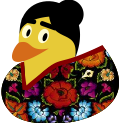
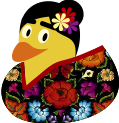
Frida: adding hair flowers

Changed region(s): [[0.1765, 0.3659, 0.8824, 0.7317], [0.4286, 0.0488, 0.6807, 0.2927]]

diff --git a/duckpond/Frida.tex b/duckpond/Frida.tex
@@ -25,9 +25,26 @@
   \end{scope}
   
   \begin{scope}[shift={(-0.09,-0.09)}]
-    \path[fill=red!60!black,overlay] (1.9613,1.4427) .. controls (1.8440,1.3835) and (1.7300,1.3506) .. (1.6485,1.3157) .. controls (1.5671,1.2809) and (1.5012,1.2563) .. (1.4464,1.2380) .. controls (1.3916,1.2196) and (1.3477,1.2076) .. (1.3102,1.1979) .. controls (1.2727,1.1882) and (1.2414,1.1808) .. (1.2119,1.1717) .. controls (1.1823,1.1628) and (1.1544,1.1522) .. (1.1235,1.1361) .. controls (1.0926,1.1200) and (0.9771,1.0259) .. (0.9354,0.9947) .. controls (0.8938,0.9635) and (0.8446,0.9229) .. (0.7829,0.8689) .. controls (0.7420,0.8274) and (0.6397,0.7498) .. (0.6397,0.7498) -- (0.5547,0.7616) -- (0.5192,1.2152) -- (0.5803,1.2357) .. controls (0.5904,0.9908) and (0.6218,0.8342) .. (0.6218,0.8342) .. controls (0.7128,0.9191) and (0.7755,0.9596) .. (0.8372,1.0137) .. controls (0.8989,1.0678) and (0.9482,1.1084) .. (0.9898,1.1395) .. controls (1.0314,1.1708) and (1.0653,1.1924) .. (1.0964,1.2086) .. controls (1.1273,1.2247) and (1.1552,1.2353) .. (1.1847,1.2442) .. controls (1.2143,1.2532) and (1.2455,1.2606) .. (1.2831,1.2703) .. controls (1.3206,1.2800) and (1.3644,1.2920) .. (1.4193,1.3104) .. controls (1.4741,1.3288) and (1.5399,1.3534) .. (1.6213,1.3882) .. controls (1.7027,1.4230) and (1.7914,1.4595) .. (1.9088,1.5187) -- cycle;
+    \path[fill=red!70!black,overlay] (1.9613,1.4427) .. controls (1.8440,1.3835) and (1.7300,1.3506) .. (1.6485,1.3157) .. controls (1.5671,1.2809) and (1.5012,1.2563) .. (1.4464,1.2380) .. controls (1.3916,1.2196) and (1.3477,1.2076) .. (1.3102,1.1979) .. controls (1.2727,1.1882) and (1.2414,1.1808) .. (1.2119,1.1717) .. controls (1.1823,1.1628) and (1.1544,1.1522) .. (1.1235,1.1361) .. controls (1.0926,1.1200) and (0.9771,1.0259) .. (0.9354,0.9947) .. controls (0.8938,0.9635) and (0.8446,0.9229) .. (0.7829,0.8689) .. controls (0.7420,0.8274) and (0.6397,0.7498) .. (0.6397,0.7498) -- (0.5547,0.7616) -- (0.5192,1.2152) -- (0.5803,1.2357) .. controls (0.5904,0.9908) and (0.6218,0.8342) .. (0.6218,0.8342) .. controls (0.7128,0.9191) and (0.7755,0.9596) .. (0.8372,1.0137) .. controls (0.8989,1.0678) and (0.9482,1.1084) .. (0.9898,1.1395) .. controls (1.0314,1.1708) and (1.0653,1.1924) .. (1.0964,1.2086) .. controls (1.1273,1.2247) and (1.1552,1.2353) .. (1.1847,1.2442) .. controls (1.2143,1.2532) and (1.2455,1.2606) .. (1.2831,1.2703) .. controls (1.3206,1.2800) and (1.3644,1.2920) .. (1.4193,1.3104) .. controls (1.4741,1.3288) and (1.5399,1.3534) .. (1.6213,1.3882) .. controls (1.7027,1.4230) and (1.7914,1.4595) .. (1.9088,1.5187) -- cycle;
   \end{scope}
   
+  % flowers
+  \begin{scope}[xshift=1.35cm,yshift=0.95cm]
+    \foreach \i in {0,51.42857,...,359}{
+      \fill[violet!80!white,rotate around={\i:(-0.0865, 0.8219)}] (-0.087, 0.822) .. controls (-0.087, 0.822) and (-0.1635, 0.6638) .. (-0.0818, 0.6653) .. controls (-0.0066, 0.6646) and (-0.087, 0.822) .. (-0.087, 0.822) -- cycle;
+    }
+  \end{scope}
+  \begin{scope}[xshift=1.3cm,yshift=1.1cm]
+    \foreach \i in {0,51.42857,...,359}{
+      \fill[red!80!black,rotate around={\i:(-0.0865, 0.8219)}] (-0.087, 0.822) .. controls (-0.087, 0.822) and (-0.1635, 0.6638) .. (-0.0818, 0.6653) .. controls (-0.0066, 0.6646) and (-0.087, 0.822) .. (-0.087, 0.822) -- cycle;
+    }
+  \end{scope}        
+  \begin{scope}[xshift=1.2cm,yshift=1cm]
+    \foreach \i in {0,51.42857,...,359}{
+      \fill[yellow!50!white,rotate around={\i:(-0.0865, 0.8219)}] (-0.087, 0.822) .. controls (-0.087, 0.822) and (-0.1635, 0.6638) .. (-0.0818, 0.6653) .. controls (-0.0066, 0.6646) and (-0.087, 0.822) .. (-0.087, 0.822) -- cycle;
+    }
+  \end{scope}
+
 \end{tikzpicture}	
 	
 \end{document}
